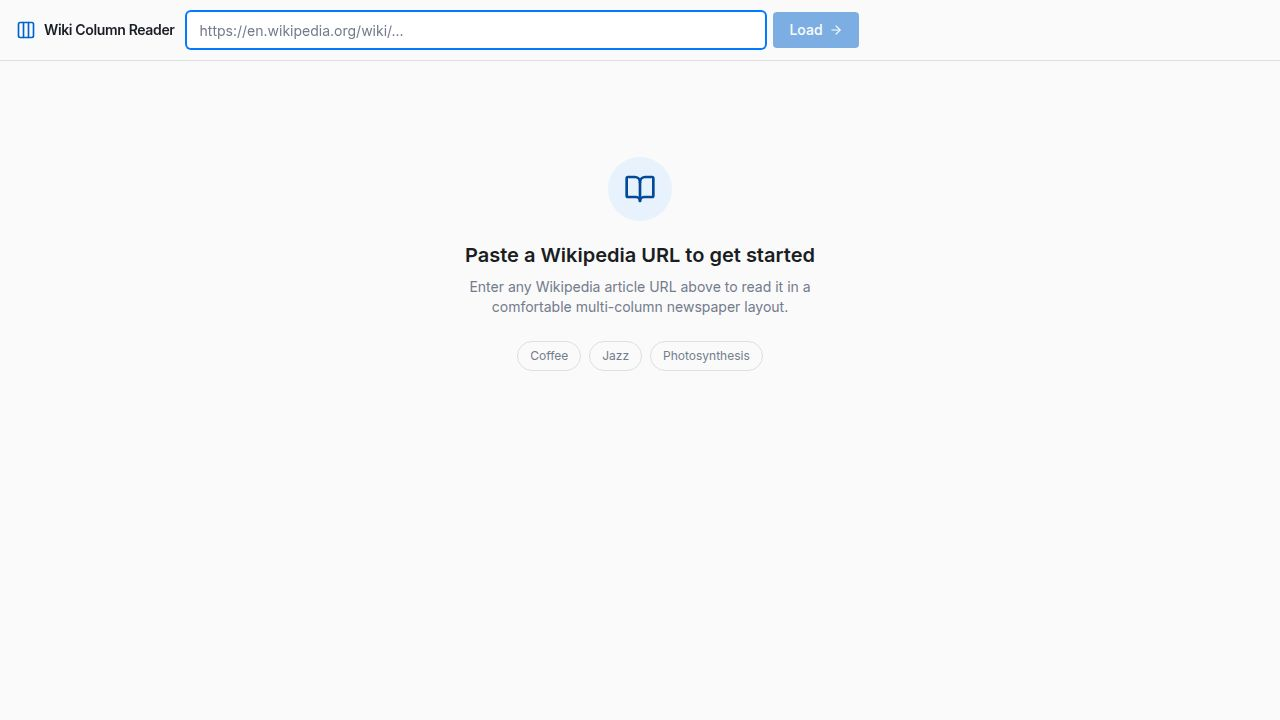
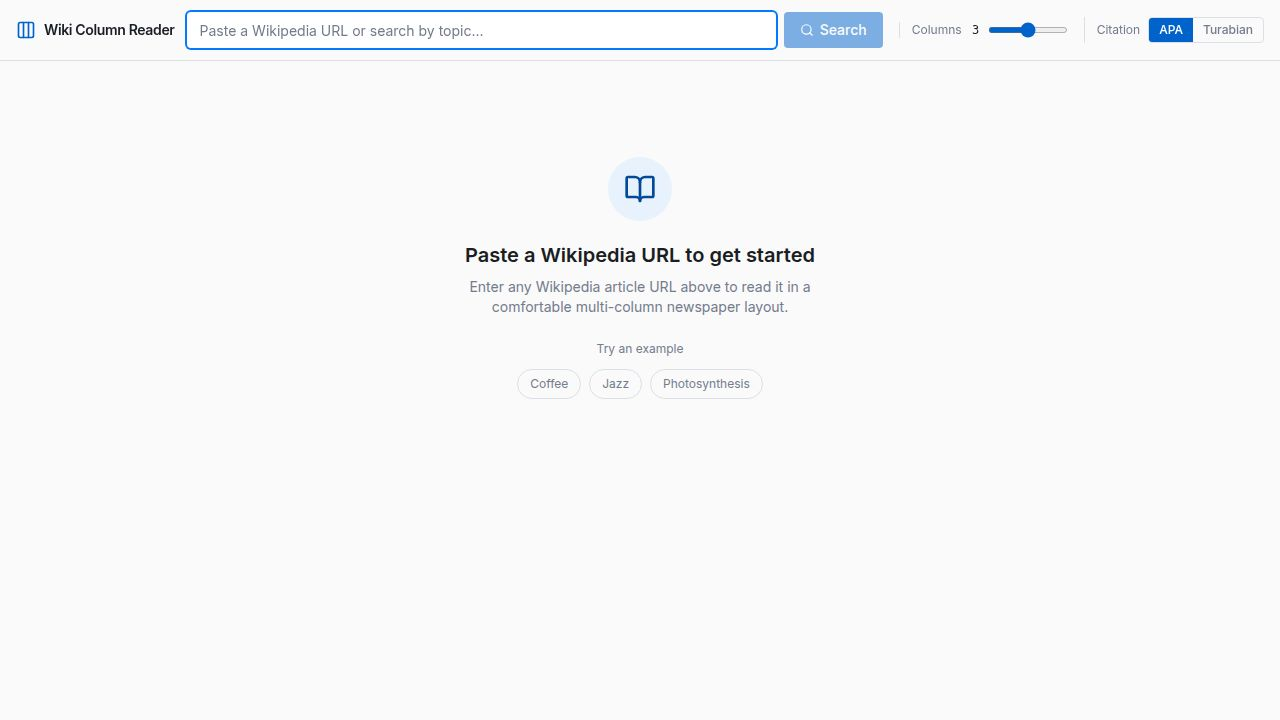
Improve display of Wikipedia citations and references on hover
Enhance Wikipedia reader to display citation details on hover by modifying HTML structure, adding CSS for styling, and updating JavaScript to handle footnote links and reference content.

Replit-Commit-Author: Agent
Replit-Commit-Session-Id: 3e2e7e71-7e02-4847-996e-435f2f2dde0d
Replit-Commit-Checkpoint-Type: full_checkpoint
Replit-Commit-Event-Id: 974bd41a-c954-4755-a1a9-c5d2f257b953
Replit-Commit-Screenshot-Url: https://storage.googleapis.com/screenshot-production-us-central1/4589a93b-557f-4761-a80a-64e491cb58d9/3e2e7e71-7e02-4847-996e-435f2f2dde0d/YnwhSkN
Replit-Helium-Checkpoint-Created: true

diff --git a/artifacts/wiki-columns/src/pages/WikiReader.tsx b/artifacts/wiki-columns/src/pages/WikiReader.tsx
@@ -88,11 +88,13 @@ function cleanWikiHtml(html: string): string {
   div.querySelectorAll(".navbox, .navbox-inner, .sistersitebox, .hatnote, .portal, .portalbox").forEach((el) => el.remove());
   div.querySelectorAll(".dmbox, .disambiguation").forEach((el) => el.remove());
   div.querySelectorAll(".mw-hidden-catlinks, #catlinks").forEach((el) => el.remove());
-  div.querySelectorAll(".references").forEach((el) => el.remove());
-  div.querySelectorAll("sup.reference, .reflist, .references-small").forEach((el) => el.remove());
+  div.querySelectorAll(".references-small").forEach((el) => el.remove());
+  // Hide backlinks (↑ arrows) and edit section links inside references — keep the text
+  div.querySelectorAll(".mw-cite-backlink").forEach((el) => el.remove());
   div.querySelectorAll("h2, h3").forEach((heading) => {
     const text = heading.textContent?.trim().toLowerCase() ?? "";
-    if (["see also", "references", "notes", "external links", "further reading", "bibliography"].includes(text)) {
+    // Only strip navigation/external sections; keep references, notes, bibliography
+    if (["see also", "external links", "further reading"].includes(text)) {
       let next = heading.nextElementSibling;
       while (next && next.tagName !== "H2") {
         const toRemove = next;
@@ -106,6 +108,12 @@ function cleanWikiHtml(html: string): string {
     const src = img.getAttribute("src");
     if (src && src.startsWith("//")) img.setAttribute("src", "https:" + src);
   });
+  // Move `title` on footnote anchors to data-cite-short so browser tooltip doesn't compete
+  div.querySelectorAll("sup.reference a[title]").forEach((el) => {
+    const a = el as HTMLAnchorElement;
+    a.setAttribute("data-cite-short", a.getAttribute("title") ?? "");
+    a.removeAttribute("title");
+  });
   div.querySelectorAll("a[href]").forEach((a) => {
     const href = a.getAttribute("href") ?? "";
     if (href.startsWith("/wiki/")) {
@@ -113,7 +121,10 @@ function cleanWikiHtml(html: string): string {
       a.setAttribute("target", "_blank");
       a.setAttribute("rel", "noopener noreferrer");
     } else if (href.startsWith("#")) {
-      a.setAttribute("href", "#");
+      // Preserve cite_note anchors for footnote hover; blank everything else
+      if (!href.startsWith("#cite_note-")) {
+        a.setAttribute("href", "#");
+      }
     }
   });
 
@@ -593,6 +604,30 @@ export default function WikiReader() {
     if (!target) return;
 
     const href = target.getAttribute("href") ?? "";
+
+    // ── Citation footnote hover ──────────────────────────────────────────────
+    if (href.startsWith("#cite_note-")) {
+      if (activeHrefRef.current === href) return;
+      activeHrefRef.current = href;
+      if (previewTimerRef.current) clearTimeout(previewTimerRef.current);
+
+      const rect = target.getBoundingClientRect();
+      const popupHeight = 200;
+      const x = rect.left;
+      const spaceBelow = window.innerHeight - rect.bottom;
+      const y = spaceBelow >= popupHeight + 8 ? rect.bottom + 6 : rect.top - popupHeight - 6;
+
+      const refId = href.slice(1);
+      const refEl = document.getElementById(refId);
+      const refText = refEl?.querySelector(".reference-text")?.textContent?.replace(/\s+/g, " ").trim() ?? "";
+      const shortCite = target.getAttribute("data-cite-short") ?? target.textContent?.trim() ?? "";
+
+      if (refText) {
+        setPreview({ title: shortCite || refId, extract: refText, pageUrl: href, x, y });
+      }
+      return;
+    }
+
     if (!href.includes("wikipedia.org/wiki/")) return;
 
     // Don't re-fetch if same link
@@ -983,7 +1018,7 @@ export default function WikiReader() {
             </div>
             <div className="border-t border-border px-3 py-1.5 flex items-center gap-1 text-xs text-primary">
               <ExternalLink className="w-3 h-3" />
-              <span>Click to open on Wikipedia</span>
+              <span>{preview.pageUrl.startsWith("#cite_note-") ? "Full citation in References section below" : "Click to open on Wikipedia"}</span>
             </div>
           </motion.div>
         )}

diff --git a/artifacts/wiki-columns/src/index.css b/artifacts/wiki-columns/src/index.css
@@ -320,10 +320,8 @@
   font-weight: 600;
 }
 
-/* Suppress Wikipedia chrome elements */
+/* Suppress Wikipedia chrome elements (NOT sup.reference — we want footnote markers) */
 .wiki-content .mw-editsection,
-.wiki-content .reference,
-.wiki-content sup.reference,
 .wiki-content .noprint,
 .wiki-content .mw-jump-link,
 .wiki-content #toc,
@@ -332,6 +330,44 @@
 .wiki-content .navbox-inner,
 .wiki-content .sistersitebox {
   display: none !important;
+}
+
+/* Footnote superscripts [1] [2] — styled, not hidden */
+.wiki-content sup.reference {
+  display: inline !important;
+  font-size: 0.7em;
+  line-height: 0;
+  vertical-align: super;
+}
+.wiki-content sup.reference a {
+  color: hsl(var(--primary));
+  text-decoration: none;
+  padding: 0 1px;
+}
+.wiki-content sup.reference a:hover {
+  text-decoration: underline;
+}
+
+/* References / Notes / Bibliography section list */
+.wiki-content .references {
+  font-size: 0.82rem;
+  line-height: 1.6;
+  padding-left: 1.2rem;
+}
+.wiki-content .references li {
+  margin-bottom: 0.4rem;
+  break-inside: avoid;
+}
+.wiki-content .references .reference-text {
+  color: hsl(var(--foreground));
+}
+/* Hide backlink arrows (already stripped in JS, belt-and-suspenders) */
+.wiki-content .mw-cite-backlink {
+  display: none !important;
+}
+/* Style cite elements inside references */
+.wiki-content .references cite {
+  font-style: normal;
 }
 
 /* Image captions */